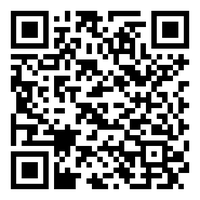
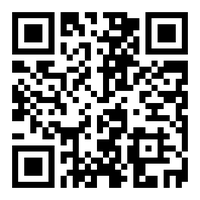
Add files via upload

diff --git a/ASM-PUMP-007.html b/ASM-PUMP-007.html
@@ -272,8 +272,8 @@
     </style></head><body><header>
 <h1><i class="fas fa-toolbox"></i> 小型外啮合齿轮泵</h1>
 <div class="assembly-qr-container" style="display: flex; justify-content: center; gap: 20px; flex-wrap: wrap;">
-<a href="https://lmy699.github.io/assembly-display/ASM-PUMP-007.html" target="_blank" rel="noopener noreferrer" title="点击跳转到装配体页面"><img src="assembly_qr/Assembly_QR_ASM-PUMP-007.png" alt="小型外啮合齿轮泵 二维码" class="assembly-qr-image" title="QR 链接到主页: https://lmy699.github.io/assembly-display/ASM-PUMP-007.html"></a>
-<a href="https://lmy699.github.io/assembly-display/ASM-PUMP-007.html" target="_blank" rel="noopener noreferrer" title="点击跳转到装配体页面"><img src="AB.png" alt="装配体信息图片" class="assembly-qr-image" title="点击查看装配体详情"></a>
+<a href="https://lmy699.github.io/6/ASM-PUMP-007.html" target="_blank" rel="noopener noreferrer" title="点击跳转到装配体页面"><img src="assembly_qr/Assembly_QR_ASM-PUMP-007.png" alt="小型外啮合齿轮泵 二维码" class="assembly-qr-image" title="QR 链接到主页: https://lmy699.github.io/6/ASM-PUMP-007.html"></a>
+<a href="https://lmy699.github.io/6/ASM-PUMP-007.html" target="_blank" rel="noopener noreferrer" title="点击跳转到装配体页面"><img src="AB.png" alt="装配体信息图片" class="assembly-qr-image" title="点击查看装配体详情"></a>
 </div>
 </header><div class="container">
     <nav class="page-nav" aria-label="页面导航">
@@ -315,12 +315,12 @@
 <table class="components-table">
 <thead><tr><th style="width: 130px;" title="组件二维码"><i class="fas fa-qrcode"></i> 二维码</th><th><i class="fas fa-info-circle"></i>组件信息 (类型 / 功能 / 详情)</th></tr></thead>
 <tbody>
-<tr class="component-row sub-assembly-row"><td class="component-qr-cell"><a href="ASM-GEAR-007.html" class="component-qr-link" title="查看 小型外啮合齿轮泵 (总成) 详情 (链接: https://lmy699.github.io/assembly-display/ASM-GEAR-007.html)" target="_blank" rel="noopener noreferrer"><img src="component_qr/Component_QR_ASM-GEAR-007.png" alt="小型外啮合齿轮泵 (总成) QR Code" loading="lazy"/></a></td><td class="component-details-cell"><a href="ASM-GEAR-007.html" class="component-name-link" title="查看 小型外啮合齿轮泵 (总成) 的详细信息" target="_blank" rel="noopener noreferrer"><i class="fas fa-folder-open component-icon assembly-icon" title="子装配"></i> 小型外啮合齿轮泵 (总成)</a><div class="component-functional-desc" title="功能描述">通过齿轮啮合原理实现液体输送，为液压系统提供稳定的流量和压力。</div><div class="component-details-grid"><div class="component-detail-item" title="组件 ID"><span class="component-detail-label">组件 ID:</span> ASM-GEAR-007</div>
+<tr class="component-row sub-assembly-row"><td class="component-qr-cell"><a href="ASM-GEAR-007.html" class="component-qr-link" title="查看 小型外啮合齿轮泵 (总成) 详情 (链接: https://lmy699.github.io/6/ASM-GEAR-007.html)" target="_blank" rel="noopener noreferrer"><img src="component_qr/Component_QR_ASM-GEAR-007.png" alt="小型外啮合齿轮泵 (总成) QR Code" loading="lazy"/></a></td><td class="component-details-cell"><a href="ASM-GEAR-007.html" class="component-name-link" title="查看 小型外啮合齿轮泵 (总成) 的详细信息" target="_blank" rel="noopener noreferrer"><i class="fas fa-folder-open component-icon assembly-icon" title="子装配"></i> 小型外啮合齿轮泵 (总成)</a><div class="component-functional-desc" title="功能描述">通过齿轮啮合原理实现液体输送，为液压系统提供稳定的流量和压力。</div><div class="component-details-grid"><div class="component-detail-item" title="组件 ID"><span class="component-detail-label">组件 ID:</span> ASM-GEAR-007</div>
 <div class="component-detail-item" title="数量"><span class="component-detail-label">数量:</span> 1</div>
 <div class="component-detail-item" title="单位"><span class="component-detail-label">单位:</span> 个</div>
 <div class="component-detail-item" title="备注"><span class="component-detail-label">备注:</span> 顶层装配体节点</div>
 </div></td></tr>
-<tr class="component-row part-row"><td class="component-qr-cell"><a href="part_PART-BODY-701.html" class="component-qr-link" title="查看 齿轮泵体 详情 (链接: https://lmy699.github.io/assembly-display/part_PART-BODY-701.html)" target="_blank" rel="noopener noreferrer"><img src="component_qr/Component_QR_PART-BODY-701.png" alt="齿轮泵体 QR Code" loading="lazy"/></a></td><td class="component-details-cell"><a href="part_PART-BODY-701.html" class="component-name-link" title="查看 齿轮泵体 的详细信息" target="_blank" rel="noopener noreferrer"><i class="fas fa-cog component-icon part-icon" title="零件"></i> 齿轮泵体</a><div class="component-functional-desc" title="功能描述">容纳主从动齿轮，形成密闭的吸油腔和排油腔，是齿轮泵的主体结构。</div><div class="component-details-grid"><div class="component-detail-item" title="组件 ID"><span class="component-detail-label">组件 ID:</span> PART-BODY-701</div>
+<tr class="component-row part-row"><td class="component-qr-cell"><a href="part_PART-BODY-701.html" class="component-qr-link" title="查看 齿轮泵体 详情 (链接: https://lmy699.github.io/6/part_PART-BODY-701.html)" target="_blank" rel="noopener noreferrer"><img src="component_qr/Component_QR_PART-BODY-701.png" alt="齿轮泵体 QR Code" loading="lazy"/></a></td><td class="component-details-cell"><a href="part_PART-BODY-701.html" class="component-name-link" title="查看 齿轮泵体 的详细信息" target="_blank" rel="noopener noreferrer"><i class="fas fa-cog component-icon part-icon" title="零件"></i> 齿轮泵体</a><div class="component-functional-desc" title="功能描述">容纳主从动齿轮，形成密闭的吸油腔和排油腔，是齿轮泵的主体结构。</div><div class="component-details-grid"><div class="component-detail-item" title="组件 ID"><span class="component-detail-label">组件 ID:</span> PART-BODY-701</div>
 <div class="component-detail-item" title="数量"><span class="component-detail-label">数量:</span> 1</div>
 <div class="component-detail-item" title="单位"><span class="component-detail-label">单位:</span> 个</div>
 <div class="component-detail-item" title="位置参考"><span class="component-detail-label">位置参考:</span> 中心位置</div>
@@ -330,7 +330,7 @@
 <div class="component-detail-item" title="装配方法"><span class="component-detail-label">装配方法:</span> 整体铸造加工</div>
 <div class="component-detail-item" title="备注"><span class="component-detail-label">备注:</span> 精密加工，内腔表面粗糙度Ra1.6。</div>
 </div></td></tr>
-<tr class="component-row part-row"><td class="component-qr-cell"><a href="part_PART-GEAR-702.html" class="component-qr-link" title="查看 主动齿轮 详情 (链接: https://lmy699.github.io/assembly-display/part_PART-GEAR-702.html)" target="_blank" rel="noopener noreferrer"><img src="component_qr/Component_QR_PART-GEAR-702.png" alt="主动齿轮 QR Code" loading="lazy"/></a></td><td class="component-details-cell"><a href="part_PART-GEAR-702.html" class="component-name-link" title="查看 主动齿轮 的详细信息" target="_blank" rel="noopener noreferrer"><i class="fas fa-cog component-icon part-icon" title="零件"></i> 主动齿轮</a><div class="component-functional-desc" title="功能描述">与电机轴连接，接受动力并驱动从动齿轮旋转，是动力传递的核心部件。</div><div class="component-details-grid"><div class="component-detail-item" title="组件 ID"><span class="component-detail-label">组件 ID:</span> PART-GEAR-702</div>
+<tr class="component-row part-row"><td class="component-qr-cell"><a href="part_PART-GEAR-702.html" class="component-qr-link" title="查看 主动齿轮 详情 (链接: https://lmy699.github.io/6/part_PART-GEAR-702.html)" target="_blank" rel="noopener noreferrer"><img src="component_qr/Component_QR_PART-GEAR-702.png" alt="主动齿轮 QR Code" loading="lazy"/></a></td><td class="component-details-cell"><a href="part_PART-GEAR-702.html" class="component-name-link" title="查看 主动齿轮 的详细信息" target="_blank" rel="noopener noreferrer"><i class="fas fa-cog component-icon part-icon" title="零件"></i> 主动齿轮</a><div class="component-functional-desc" title="功能描述">与电机轴连接，接受动力并驱动从动齿轮旋转，是动力传递的核心部件。</div><div class="component-details-grid"><div class="component-detail-item" title="组件 ID"><span class="component-detail-label">组件 ID:</span> PART-GEAR-702</div>
 <div class="component-detail-item" title="数量"><span class="component-detail-label">数量:</span> 1</div>
 <div class="component-detail-item" title="单位"><span class="component-detail-label">单位:</span> 个</div>
 <div class="component-detail-item" title="位置参考"><span class="component-detail-label">位置参考:</span> 泵体左侧</div>
@@ -340,7 +340,7 @@
 <div class="component-detail-item" title="装配方法"><span class="component-detail-label">装配方法:</span> 热装配合+键连接</div>
 <div class="component-detail-item" title="备注"><span class="component-detail-label">备注:</span> 齿数15，模数2.5，6级精度，渗碳层深0.8-1.2mm。</div>
 </div></td></tr>
-<tr class="component-row part-row"><td class="component-qr-cell"><a href="part_PART-GEAR-703.html" class="component-qr-link" title="查看 从动齿轮 详情 (链接: https://lmy699.github.io/assembly-display/part_PART-GEAR-703.html)" target="_blank" rel="noopener noreferrer"><img src="component_qr/Component_QR_PART-GEAR-703.png" alt="从动齿轮 QR Code" loading="lazy"/></a></td><td class="component-details-cell"><a href="part_PART-GEAR-703.html" class="component-name-link" title="查看 从动齿轮 的详细信息" target="_blank" rel="noopener noreferrer"><i class="fas fa-cog component-icon part-icon" title="零件"></i> 从动齿轮</a><div class="component-functional-desc" title="功能描述">与主动齿轮啮合，协同完成液体的吸入和排出，确保齿轮泵的连续工作。</div><div class="component-details-grid"><div class="component-detail-item" title="组件 ID"><span class="component-detail-label">组件 ID:</span> PART-GEAR-703</div>
+<tr class="component-row part-row"><td class="component-qr-cell"><a href="part_PART-GEAR-703.html" class="component-qr-link" title="查看 从动齿轮 详情 (链接: https://lmy699.github.io/6/part_PART-GEAR-703.html)" target="_blank" rel="noopener noreferrer"><img src="component_qr/Component_QR_PART-GEAR-703.png" alt="从动齿轮 QR Code" loading="lazy"/></a></td><td class="component-details-cell"><a href="part_PART-GEAR-703.html" class="component-name-link" title="查看 从动齿轮 的详细信息" target="_blank" rel="noopener noreferrer"><i class="fas fa-cog component-icon part-icon" title="零件"></i> 从动齿轮</a><div class="component-functional-desc" title="功能描述">与主动齿轮啮合，协同完成液体的吸入和排出，确保齿轮泵的连续工作。</div><div class="component-details-grid"><div class="component-detail-item" title="组件 ID"><span class="component-detail-label">组件 ID:</span> PART-GEAR-703</div>
 <div class="component-detail-item" title="数量"><span class="component-detail-label">数量:</span> 1</div>
 <div class="component-detail-item" title="单位"><span class="component-detail-label">单位:</span> 个</div>
 <div class="component-detail-item" title="位置参考"><span class="component-detail-label">位置参考:</span> 泵体右侧</div>
@@ -350,7 +350,7 @@
 <div class="component-detail-item" title="装配方法"><span class="component-detail-label">装配方法:</span> 滚动轴承支撑</div>
 <div class="component-detail-item" title="备注"><span class="component-detail-label">备注:</span> 齿数15，模数2.5，6级精度，与主动齿轮配对研磨。</div>
 </div></td></tr>
-<tr class="component-row part-row"><td class="component-qr-cell"><a href="part_PART-SEAL-704.html" class="component-qr-link" title="查看 O型密封圈 详情 (链接: https://lmy699.github.io/assembly-display/part_PART-SEAL-704.html)" target="_blank" rel="noopener noreferrer"><img src="component_qr/Component_QR_PART-SEAL-704.png" alt="O型密封圈 QR Code" loading="lazy"/></a></td><td class="component-details-cell"><a href="part_PART-SEAL-704.html" class="component-name-link" title="查看 O型密封圈 的详细信息" target="_blank" rel="noopener noreferrer"><i class="fas fa-cog component-icon part-icon" title="零件"></i> O型密封圈</a><div class="component-functional-desc" title="功能描述">在轴端、端盖接合面提供密封，防止液压油泄漏，确保系统密封性。</div><div class="component-details-grid"><div class="component-detail-item" title="组件 ID"><span class="component-detail-label">组件 ID:</span> PART-SEAL-704</div>
+<tr class="component-row part-row"><td class="component-qr-cell"><a href="part_PART-SEAL-704.html" class="component-qr-link" title="查看 O型密封圈 详情 (链接: https://lmy699.github.io/6/part_PART-SEAL-704.html)" target="_blank" rel="noopener noreferrer"><img src="component_qr/Component_QR_PART-SEAL-704.png" alt="O型密封圈 QR Code" loading="lazy"/></a></td><td class="component-details-cell"><a href="part_PART-SEAL-704.html" class="component-name-link" title="查看 O型密封圈 的详细信息" target="_blank" rel="noopener noreferrer"><i class="fas fa-cog component-icon part-icon" title="零件"></i> O型密封圈</a><div class="component-functional-desc" title="功能描述">在轴端、端盖接合面提供密封，防止液压油泄漏，确保系统密封性。</div><div class="component-details-grid"><div class="component-detail-item" title="组件 ID"><span class="component-detail-label">组件 ID:</span> PART-SEAL-704</div>
 <div class="component-detail-item" title="数量"><span class="component-detail-label">数量:</span> 4</div>
 <div class="component-detail-item" title="单位"><span class="component-detail-label">单位:</span> 个</div>
 <div class="component-detail-item" title="位置参考"><span class="component-detail-label">位置参考:</span> 轴承端盖处</div>
@@ -360,7 +360,7 @@
 <div class="component-detail-item" title="装配方法"><span class="component-detail-label">装配方法:</span> 压入密封槽</div>
 <div class="component-detail-item" title="备注"><span class="component-detail-label">备注:</span> 耐高温耐油，工作温度-20~150℃。</div>
 </div></td></tr>
-<tr class="component-row part-row"><td class="component-qr-cell"><a href="part_PART-COVER-705.html" class="component-qr-link" title="查看 前端盖 详情 (链接: https://lmy699.github.io/assembly-display/part_PART-COVER-705.html)" target="_blank" rel="noopener noreferrer"><img src="component_qr/Component_QR_PART-COVER-705.png" alt="前端盖 QR Code" loading="lazy"/></a></td><td class="component-details-cell"><a href="part_PART-COVER-705.html" class="component-name-link" title="查看 前端盖 的详细信息" target="_blank" rel="noopener noreferrer"><i class="fas fa-cog component-icon part-icon" title="零件"></i> 前端盖</a><div class="component-functional-desc" title="功能描述">封闭泵体前端，支撑主动齿轮轴承，形成密闭的工作腔。</div><div class="component-details-grid"><div class="component-detail-item" title="组件 ID"><span class="component-detail-label">组件 ID:</span> PART-COVER-705</div>
+<tr class="component-row part-row"><td class="component-qr-cell"><a href="part_PART-COVER-705.html" class="component-qr-link" title="查看 前端盖 详情 (链接: https://lmy699.github.io/6/part_PART-COVER-705.html)" target="_blank" rel="noopener noreferrer"><img src="component_qr/Component_QR_PART-COVER-705.png" alt="前端盖 QR Code" loading="lazy"/></a></td><td class="component-details-cell"><a href="part_PART-COVER-705.html" class="component-name-link" title="查看 前端盖 的详细信息" target="_blank" rel="noopener noreferrer"><i class="fas fa-cog component-icon part-icon" title="零件"></i> 前端盖</a><div class="component-functional-desc" title="功能描述">封闭泵体前端，支撑主动齿轮轴承，形成密闭的工作腔。</div><div class="component-details-grid"><div class="component-detail-item" title="组件 ID"><span class="component-detail-label">组件 ID:</span> PART-COVER-705</div>
 <div class="component-detail-item" title="数量"><span class="component-detail-label">数量:</span> 1</div>
 <div class="component-detail-item" title="单位"><span class="component-detail-label">单位:</span> 个</div>
 <div class="component-detail-item" title="位置参考"><span class="component-detail-label">位置参考:</span> 泵体前端</div>
@@ -370,7 +370,7 @@
 <div class="component-detail-item" title="装配方法"><span class="component-detail-label">装配方法:</span> M5螺钉固定</div>
 <div class="component-detail-item" title="备注"><span class="component-detail-label">备注:</span> 精加工轴承孔，表面粗糙度Ra1.6。</div>
 </div></td></tr>
-<tr class="component-row part-row"><td class="component-qr-cell"><a href="part_PART-COVER-706.html" class="component-qr-link" title="查看 后端盖 详情 (链接: https://lmy699.github.io/assembly-display/part_PART-COVER-706.html)" target="_blank" rel="noopener noreferrer"><img src="component_qr/Component_QR_PART-COVER-706.png" alt="后端盖 QR Code" loading="lazy"/></a></td><td class="component-details-cell"><a href="part_PART-COVER-706.html" class="component-name-link" title="查看 后端盖 的详细信息" target="_blank" rel="noopener noreferrer"><i class="fas fa-cog component-icon part-icon" title="零件"></i> 后端盖</a><div class="component-functional-desc" title="功能描述">封闭泵体后端，支撑从动齿轮轴承，并设有排气孔。</div><div class="component-details-grid"><div class="component-detail-item" title="组件 ID"><span class="component-detail-label">组件 ID:</span> PART-COVER-706</div>
+<tr class="component-row part-row"><td class="component-qr-cell"><a href="part_PART-COVER-706.html" class="component-qr-link" title="查看 后端盖 详情 (链接: https://lmy699.github.io/6/part_PART-COVER-706.html)" target="_blank" rel="noopener noreferrer"><img src="component_qr/Component_QR_PART-COVER-706.png" alt="后端盖 QR Code" loading="lazy"/></a></td><td class="component-details-cell"><a href="part_PART-COVER-706.html" class="component-name-link" title="查看 后端盖 的详细信息" target="_blank" rel="noopener noreferrer"><i class="fas fa-cog component-icon part-icon" title="零件"></i> 后端盖</a><div class="component-functional-desc" title="功能描述">封闭泵体后端，支撑从动齿轮轴承，并设有排气孔。</div><div class="component-details-grid"><div class="component-detail-item" title="组件 ID"><span class="component-detail-label">组件 ID:</span> PART-COVER-706</div>
 <div class="component-detail-item" title="数量"><span class="component-detail-label">数量:</span> 1</div>
 <div class="component-detail-item" title="单位"><span class="component-detail-label">单位:</span> 个</div>
 <div class="component-detail-item" title="位置参考"><span class="component-detail-label">位置参考:</span> 泵体后端</div>
@@ -596,8 +596,8 @@
 </div></div>
     <button id="back-to-top" title="返回顶部"><i class="fas fa-arrow-up"></i></button>
     <footer role="contentinfo">
-        页面静态生成时间: <time datetime="2025-10-07 19:22:55">2025-10-07 19:22:55</time> | 数据来源: ASM 数据库<br>
-        公开访问基址: <a href="https://lmy699.github.io/assembly-display/" target="_blank" rel="noopener noreferrer">https://lmy699.github.io/assembly-display/</a><br>
+        页面静态生成时间: <time datetime="2025-10-07 19:37:06">2025-10-07 19:37:06</time> | 数据来源: ASM 数据库<br>
+        公开访问基址: <a href="https://lmy699.github.io/6/" target="_blank" rel="noopener noreferrer">https://lmy699.github.io/6/</a><br>
         Generated by V4.8.4.1 - 基于 V4.8.4 调整QR位置
     </footer>
     <script>

diff --git a/parts_list.html b/parts_list.html
@@ -274,7 +274,7 @@
 </header><div class="container"><div class="section" id="search-section"><h2><i class="fas fa-search"></i> 搜索零件</h2><div class="search-container"><label for="partSearchInput"><i class="fas fa-filter"></i> 输入关键词:</label><input type="text" id="partSearchInput" placeholder="搜索零件名称、ID、规格、材料、备注..." aria-label="零件搜索输入框"></div></div><div class="section" id="master-qr-section">
 <h3><i class="fas fa-qrcode"></i> 零件总览页面二维码</h3>
 <p>扫描此二维码可快速访问此 parts_list.html 页面。</p>
-<img src="master_qr/master_parts_list_qr.png" alt="零件总览页面二维码" title="扫描访问零件总览页面: https://lmy699.github.io/assembly-display/parts_list.html" style="width: 100px; height: 100px; display: block; margin-left: auto; margin-right: auto;"/>
+<img src="master_qr/master_parts_list_qr.png" alt="零件总览页面二维码" title="扫描访问零件总览页面: https://lmy699.github.io/6/parts_list.html" style="width: 100px; height: 100px; display: block; margin-left: auto; margin-right: auto;"/>
 </div><div class="section" id="parts-list-section"><h2><i class="fas fa-th-list"></i> 所有零件列表</h2><p>共找到 <strong>6</strong> 个独立零件 (基于 ItemAI 去重)。使用上方搜索框进行筛选。</p><div style="overflow-x:auto;"><table class="parts-list-table" id="partsTable"><thead><tr>
 <th title="零件二维码">零件二维码</th>
 <th title="名称 / ID">名称 / ID</th>
@@ -286,8 +286,8 @@
 <tbody>
 <tr data-search="part-body-701 齿轮泵体 gb-701-v1 球墨铸铁qt450-10 精密加工，内腔表面粗糙度ra1.6。">
 <td data-label="零件二维码">
[1 lines of base64/hex data omitted]
-链接到: https://lmy699.github.io/assembly-display/part_PART-BODY-701.html" loading="lazy"/></div>
[1 lines of base64/hex data omitted]
+链接到: https://lmy699.github.io/6/part_PART-BODY-701.html" loading="lazy"/></div>
 </td>
 <td data-label="名称 / ID">
 <div class="part-name-cell"><strong>齿轮泵体</strong><span>ID: PART-BODY-701</span></div>
@@ -307,8 +307,8 @@
 </tr>
 <tr data-search="part-gear-702 主动齿轮 gr-702-z15 20crmnti渗碳淬火 齿数15，模数2.5，6级精度，渗碳层深0.8-1.2mm。">
 <td data-label="零件二维码">
[1 lines of base64/hex data omitted]
-链接到: https://lmy699.github.io/assembly-display/part_PART-GEAR-702.html" loading="lazy"/></div>
[1 lines of base64/hex data omitted]
+链接到: https://lmy699.github.io/6/part_PART-GEAR-702.html" loading="lazy"/></div>
 </td>
 <td data-label="名称 / ID">
 <div class="part-name-cell"><strong>主动齿轮</strong><span>ID: PART-GEAR-702</span></div>
@@ -328,8 +328,8 @@
 </tr>
 <tr data-search="part-gear-703 从动齿轮 gr-703-z15 20crmnti渗碳淬火 齿数15，模数2.5，6级精度，与主动齿轮配对研磨。">
 <td data-label="零件二维码">
[1 lines of base64/hex data omitted]
-链接到: https://lmy699.github.io/assembly-display/part_PART-GEAR-703.html" loading="lazy"/></div>
[1 lines of base64/hex data omitted]
+链接到: https://lmy699.github.io/6/part_PART-GEAR-703.html" loading="lazy"/></div>
 </td>
 <td data-label="名称 / ID">
 <div class="part-name-cell"><strong>从动齿轮</strong><span>ID: PART-GEAR-703</span></div>
@@ -349,8 +349,8 @@
 </tr>
 <tr data-search="part-seal-704 o型密封圈 内径22mm, 线径3.5mm 氟橡胶(fkm) 耐高温耐油，工作温度-20~150℃。">
 <td data-label="零件二维码">
[1 lines of base64/hex data omitted]
-链接到: https://lmy699.github.io/assembly-display/part_PART-SEAL-704.html" loading="lazy"/></div>
[1 lines of base64/hex data omitted]
+链接到: https://lmy699.github.io/6/part_PART-SEAL-704.html" loading="lazy"/></div>
 </td>
 <td data-label="名称 / ID">
 <div class="part-name-cell"><strong>O型密封圈</strong><span>ID: PART-SEAL-704</span></div>
@@ -370,8 +370,8 @@
 </tr>
 <tr data-search="part-cover-705 前端盖 fc-705-v1 球墨铸铁qt450-10 精加工轴承孔，表面粗糙度ra1.6。">
 <td data-label="零件二维码">
[1 lines of base64/hex data omitted]
-链接到: https://lmy699.github.io/assembly-display/part_PART-COVER-705.html" loading="lazy"/></div>
[1 lines of base64/hex data omitted]
+链接到: https://lmy699.github.io/6/part_PART-COVER-705.html" loading="lazy"/></div>
 </td>
 <td data-label="名称 / ID">
 <div class="part-name-cell"><strong>前端盖</strong><span>ID: PART-COVER-705</span></div>
@@ -391,8 +391,8 @@
 </tr>
 <tr data-search="part-cover-706 后端盖 rc-706-v1 球墨铸铁qt450-10 精加工轴承孔，带排气螺堵。">
 <td data-label="零件二维码">
[1 lines of base64/hex data omitted]
-链接到: https://lmy699.github.io/assembly-display/part_PART-COVER-706.html" loading="lazy"/></div>
[1 lines of base64/hex data omitted]
+链接到: https://lmy699.github.io/6/part_PART-COVER-706.html" loading="lazy"/></div>
 </td>
 <td data-label="名称 / ID">
 <div class="part-name-cell"><strong>后端盖</strong><span>ID: PART-COVER-706</span></div>
@@ -414,8 +414,8 @@
 </tbody></table></div></div></div>
     <button id="back-to-top" title="返回顶部"><i class="fas fa-arrow-up"></i></button>
     <footer role="contentinfo">
-        页面静态生成时间: <time datetime="2025-10-07 19:22:55">2025-10-07 19:22:55</time> | 数据来源: ASM 数据库<br>
-        公开访问基址: <a href="https://lmy699.github.io/assembly-display/" target="_blank" rel="noopener noreferrer">https://lmy699.github.io/assembly-display/</a><br>
+        页面静态生成时间: <time datetime="2025-10-07 19:37:06">2025-10-07 19:37:06</time> | 数据来源: ASM 数据库<br>
+        公开访问基址: <a href="https://lmy699.github.io/6/" target="_blank" rel="noopener noreferrer">https://lmy699.github.io/6/</a><br>
         Generated by V4.8.4.1 - 基于 V4.8.4 调整QR位置
     </footer>
     <script>
